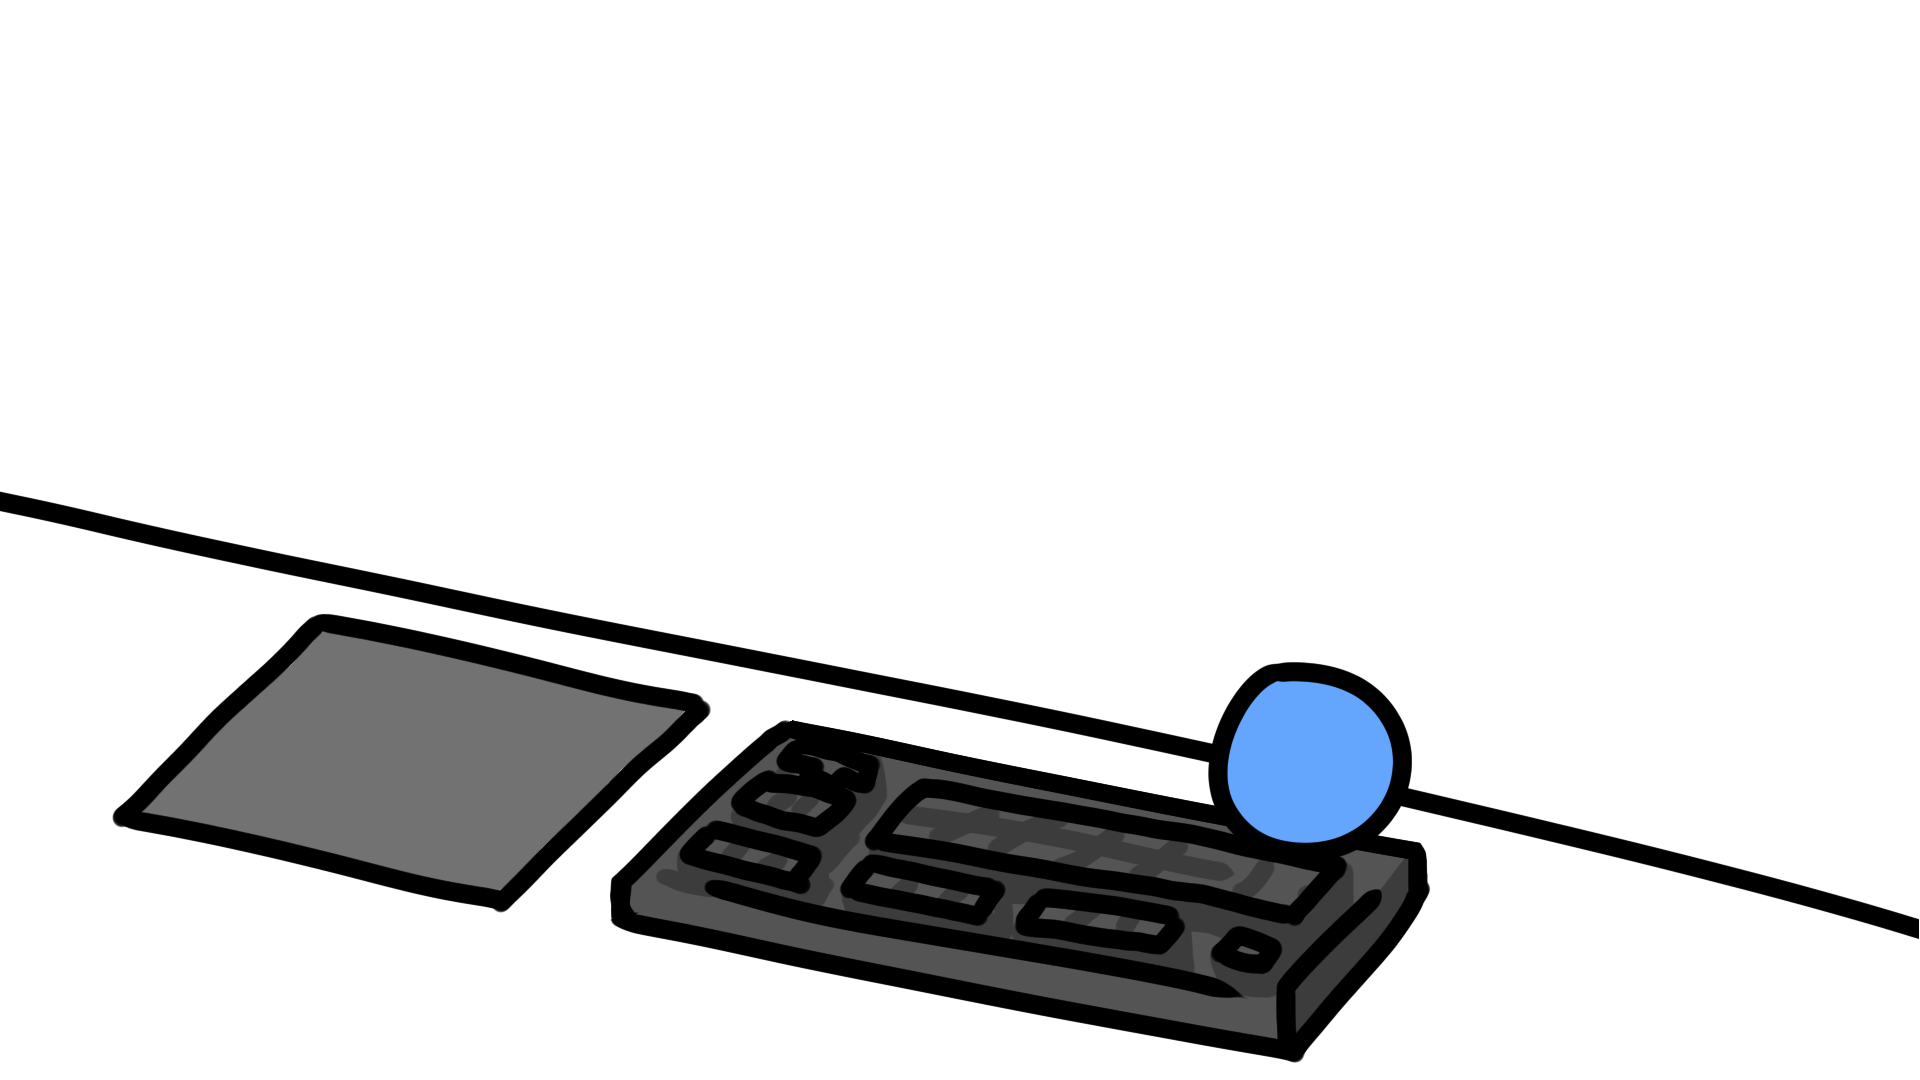
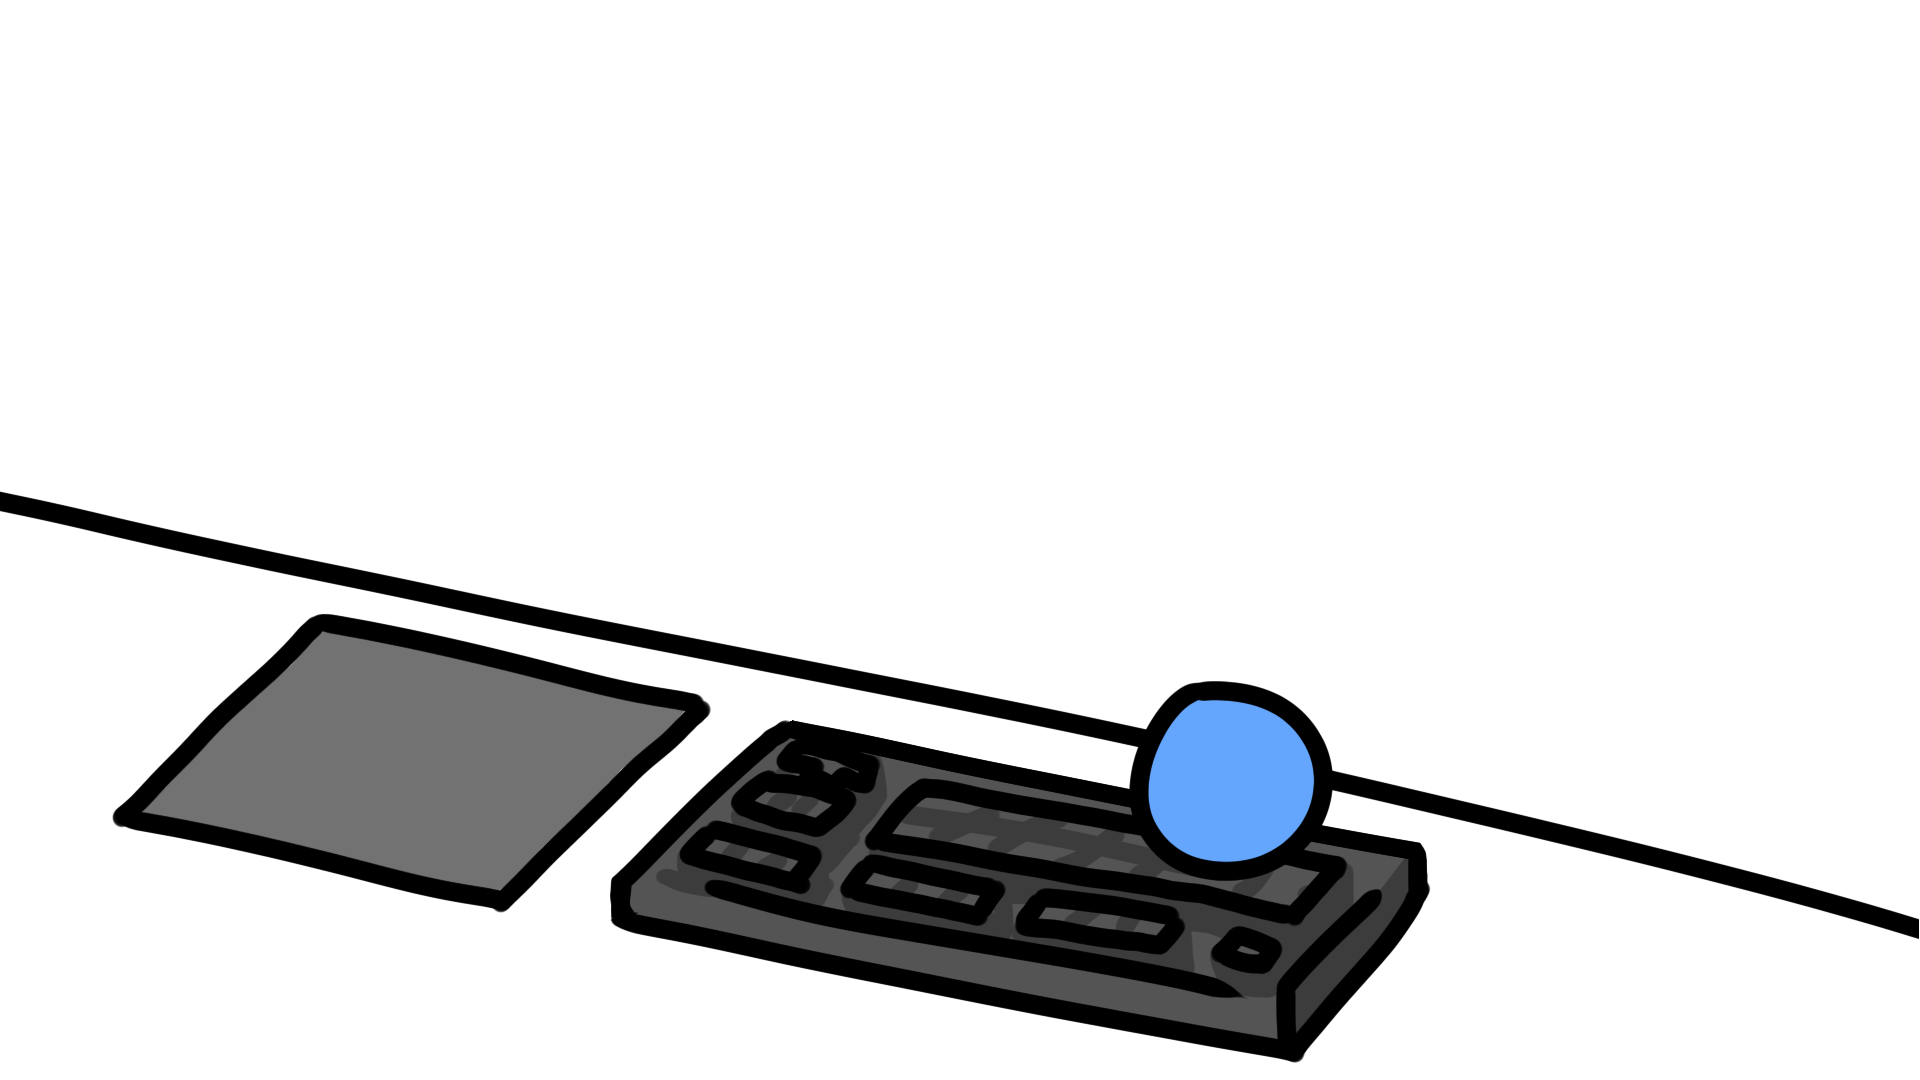
펜 모드 추가

Changed region(s): [[0.5625, 0.6111, 0.75, 0.825]]

diff --git a/src/index.js b/src/index.js
@@ -65,9 +65,8 @@ function blink() {
 }
 setTimeout(blink, 1)
 
-const ioHook = require("iohook")
-
 // 키 인식부분
+const ioHook = require("iohook")
 const whenKeys = document.querySelectorAll(".whenKeys")
 let downKeys = []
 ioHook.on("keydown", (event) => {
@@ -94,14 +93,21 @@ ioHook.on("keyup", (event) => {
 	}
 })
 
-/* 마우스 움직이는 부분 */
+// 마우스 움직이는 부분
+let pen = false;
 const mouse = document.querySelector("#hand_mouse")
-const moveMutX = config.mouseMoveMultiplier[0] * 2
-const moveMutY = config.mouseMoveMultiplier[1] * 2
+const mouseMutX = config.mouseMoveMultiplier[0] * 2
+const mouseMutY = config.mouseMoveMultiplier[1] * 2
 const mouseOffX = config.mouseOffset[0]
 const mouseOffY = config.mouseOffset[1]
 const mouseRotX = config.mouseRotateX
 const mouseRotY = config.mouseRotateY
+const penMutX = config.penMoveMultiplier[0] * 2
+const penMutY = config.penMoveMultiplier[1] * 2
+const penOffX = config.penOffset[0]
+const penOffY = config.penOffset[1]
+const penRotX = config.penRotateX
+const penRotY = config.penRotateY
 const bodyMoveX = config.bodyMove[0]
 const bodyMoveY = config.bodyMove[1]
 const faceMoveX = config.faceMove[0]
@@ -113,8 +119,8 @@ function whenMouse(event) {
 	let y = event.y / screen.height - 0.5
 	
 	// 마우스 움직이기
-	mouse.style.left = parseInt((x * -moveMutX) + mouseOffX + (y * mouseRotY)) + "px"
-	mouse.style.top  = parseInt((y * -moveMutY) + mouseOffY + (x * mouseRotX)) + "px"
+	mouse.style.left = parseInt((x * -(pen ? penMutX : mouseMutX)) + (pen ? penOffX : mouseOffX) + (y * (pen ? penRotY : mouseRotY))) + "px"
+	mouse.style.top  = parseInt((y * -(pen ? penMutY : mouseMutY)) + (pen ? penOffY : mouseOffY) + (x * (pen ? penRotX : mouseRotX))) + "px"
 	
 	// 몸 움직이기
 	body.style.left = parseInt(bodyMoveX * x) + "px"
@@ -127,11 +133,23 @@ ioHook.on("mousemove", whenMouse)
 
 ioHook.start()
 
-/* 창 닫기 버튼 */
+// 창 닫기 버튼
 document.onreadystatechange = (event) => {
     if (document.readyState == "complete") {
         document.querySelector(".button#close").addEventListener("click", event => {
-			window.close();
-		});		
+			window.close()
+		})	
     }
-};
+}
+
+// 펜 모드로 바꾸기
+const base_img = document.querySelector(".base_img")
+const base_img_down = document.querySelector(".base_img_down")
+const hand_mouse_img = document.querySelector(".hand_mouse_img")
+function changeMode() {
+	pen = !pen
+	base_img.src = pen ? "./images/pen.png" : "./images/base.png"
+	base_img_down.src = pen ? "./images/pen_keydown.png" : "./images/base_keydown.png"
+	hand_mouse_img.src = pen ? "./images/hand_pen.png" : "./images/hand_mouse.png"
+}
+document.querySelector(".button#mode").addEventListener("click", changeMode)

diff --git a/src/style.css b/src/style.css
@@ -29,12 +29,6 @@ body {
 #window-controls .button#close {
 	grid-column: 2;
 }
-.button#close:hover {
-	background: #e81123a4 !important;
-}
-.button#close:active {
-	background: #fa5462bd !important;
-}
 #window-controls .button {
 	user-select: none;
 	grid-row: 1 / span 1;
@@ -83,6 +77,23 @@ body {
 	text-overflow: ellipsis;
 	white-space: nowrap;
 	line-height: 1.5;
+}
+
+.button#close {
+	grid-column: 2;
+}
+.button#close:hover {
+	background: #e81123a4 !important;
+}
+.button#close:active {
+	background: #fa5462bd !important;
+}
+.button#mode {
+	grid-column: 1;
+}
+.button#mode .icon {
+	width: 18px;
+	height: 18px;
 }
 
 /* root : 창을 드래그 할 수 있도록 만들어주는 최상단 오브젝트 */

diff --git a/src/index.html b/src/index.html
@@ -45,10 +45,13 @@
 			<div id="title">
 				<div id="window-title">
 					<span>Keyviewer 1.0.4</span>
-				  </div>
+				</div>
 				<div id="window-controls">
 					<div class="button" id="close">
 						<img class="icon" srcset="icons/close-w-10.png 1x, icons/close-w-12.png 1.25x, icons/close-w-15.png 1.5x, icons/close-w-15.png 1.75x, icons/close-w-20.png 2x, icons/close-w-20.png 2.25x, icons/close-w-24.png 2.5x, icons/close-w-30.png 3x, icons/close-w-30.png 3.5x" draggable="false" />
+					</div>
+					<div class="button" id="mode">
+						<img class="icon" src="./images/mode.png" draggable="false" />
 					</div>
 				</div>
 			</div>
